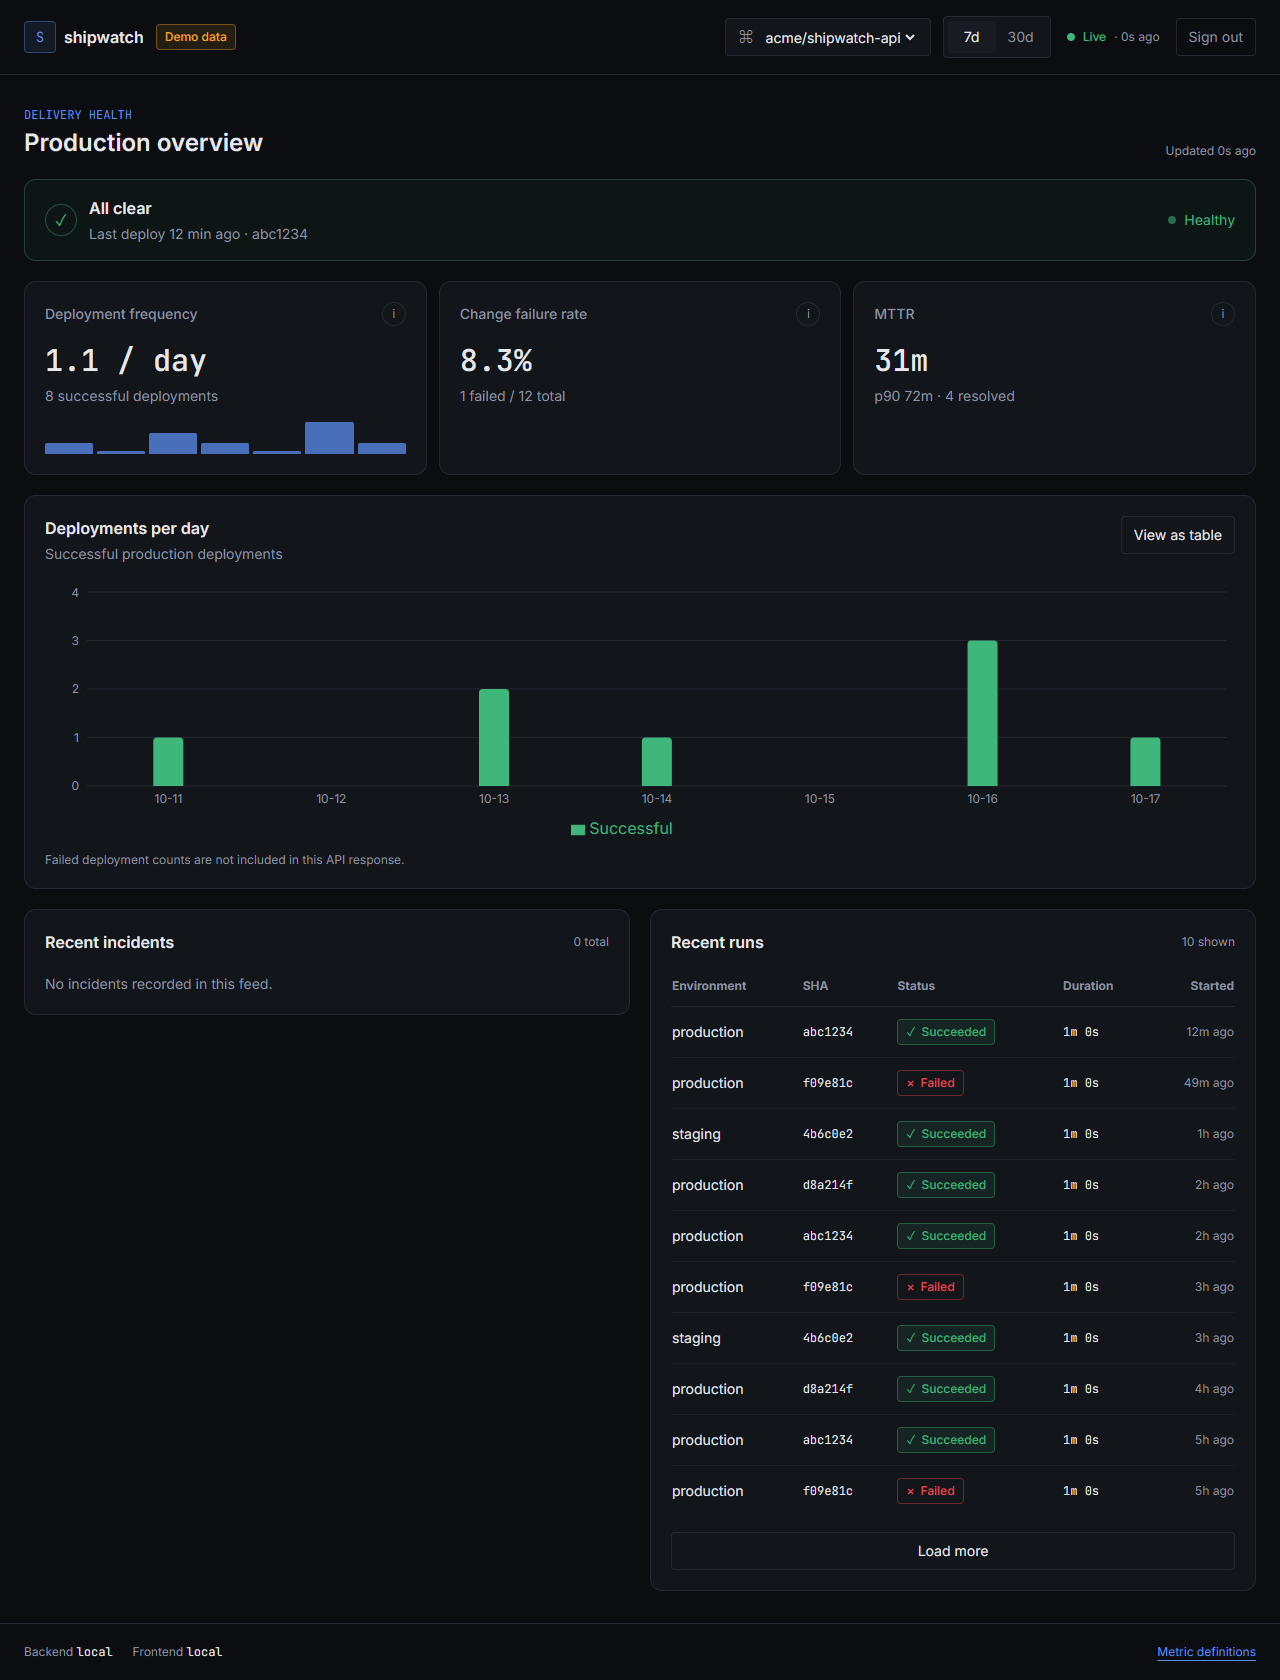
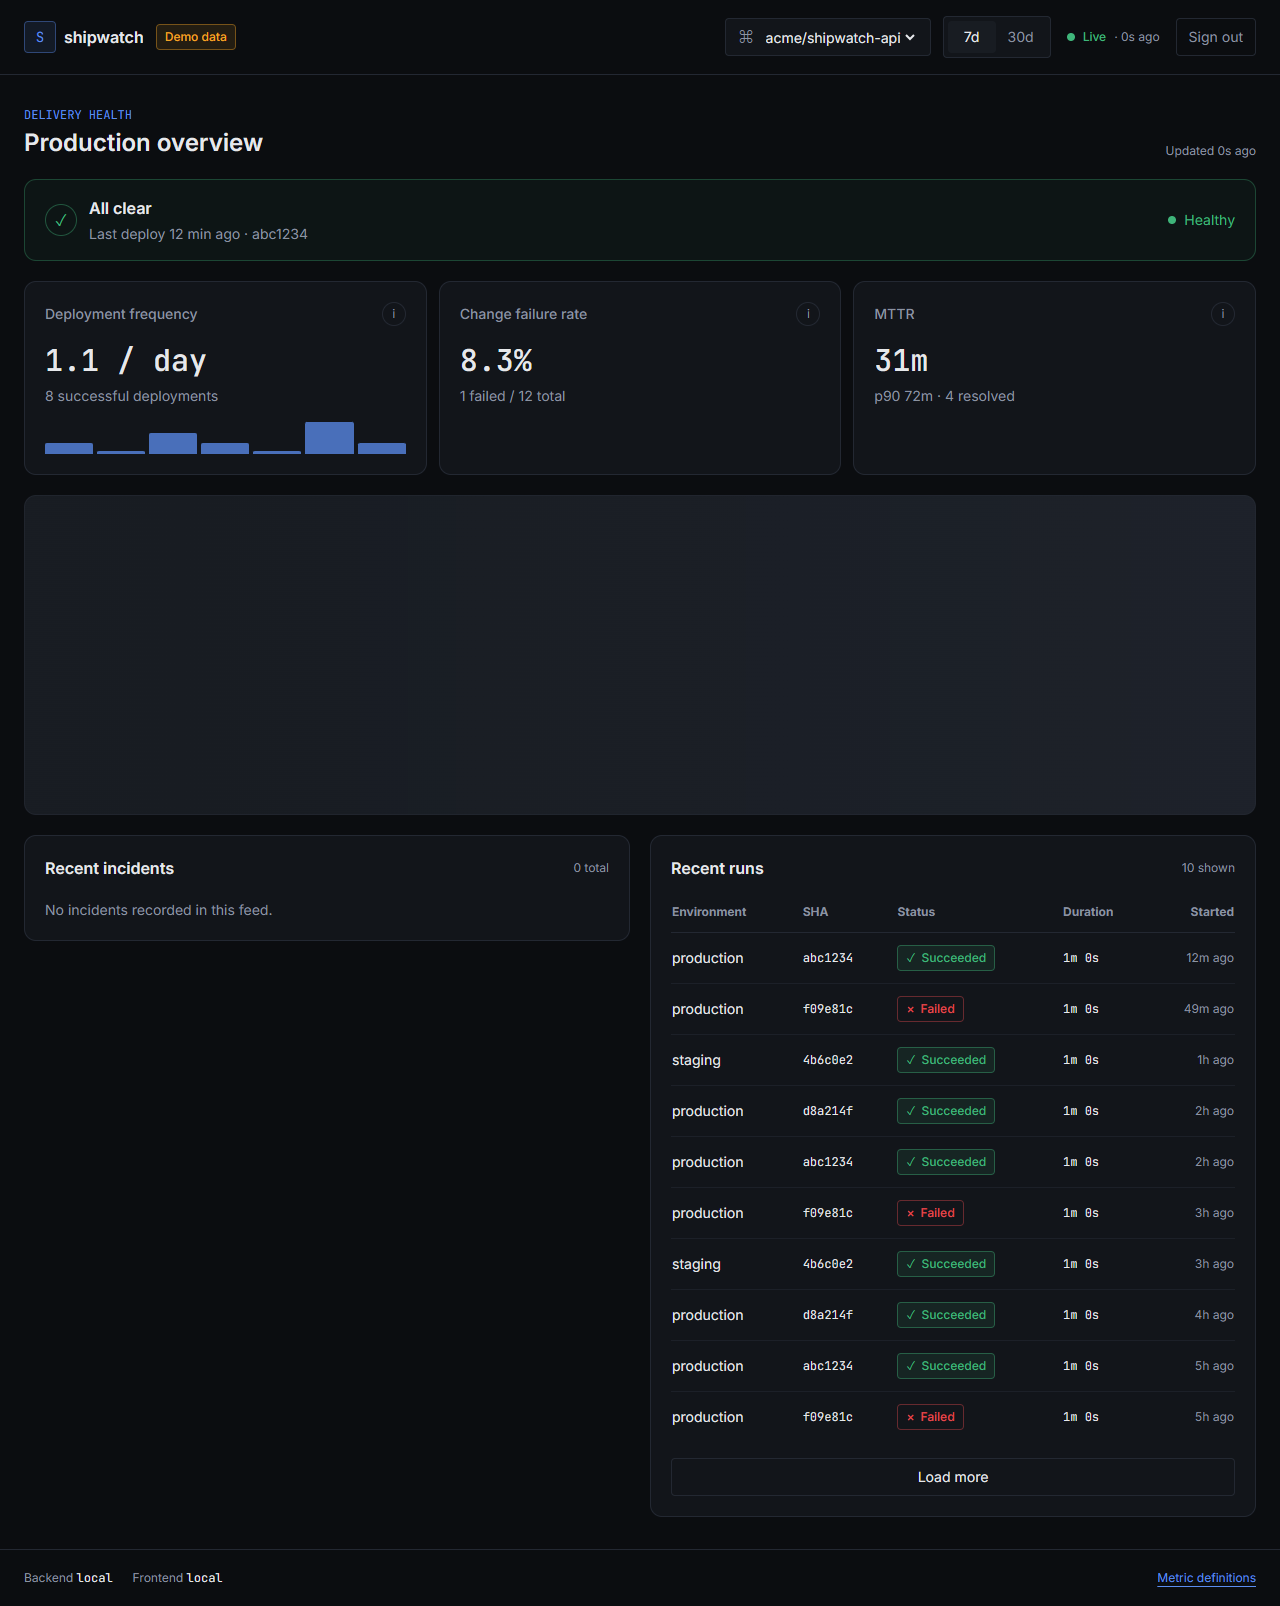
feat: update dashboard screenshots and add error context for Playwright tests

diff --git a/frontend/test-results/dashboard-demo-dashboard-is-responsive-and-accessible/error-context.md b/frontend/test-results/dashboard-demo-dashboard-is-responsive-and-accessible/error-context.md
@@ -1,0 +1,332 @@
+# Instructions
+
+- Following Playwright test failed.
+- Explain why, be concise, respect Playwright best practices.
+- Provide a snippet of code with the fix, if possible.
+
+# Test info
+
+- Name: dashboard.spec.ts >> demo dashboard is responsive and accessible
+- Location: e2e\dashboard.spec.ts:10:1
+
+# Error details
+
+```
+Error: expect(received).toEqual(expected) // deep equality
+
+- Expected  -  1
++ Received  + 47
+
+- Array []
++ Array [
++   Object {
++     "description": "Ensure ARIA attributes are not prohibited for an element's role",
++     "help": "Elements must only use permitted ARIA attributes",
++     "helpUrl": "https://dequeuniversity.com/rules/axe/4.14/aria-prohibited-attr?application=playwright",
++     "id": "aria-prohibited-attr",
++     "impact": "serious",
++     "nodes": Array [
++       Object {
++         "all": Array [],
++         "any": Array [],
++         "failureSummary": "Fix all of the following:
++   aria-label attribute cannot be used on \"div\" elements with no valid role attribute.",
++         "html": "<div aria-label=\"Loading deployment chart\" class=\"skeleton h-80 rounded-console border border-border/70\"></div>",
++         "impact": "serious",
++         "none": Array [
++           Object {
++             "data": Object {
++               "messageKey": "noRoleSingular",
++               "nodeName": "div",
++               "prohibited": Array [
++                 "aria-label",
++               ],
++               "role": null,
++             },
++             "id": "aria-prohibited-attr",
++             "impact": "serious",
++             "message": "aria-label attribute cannot be used on \"div\" elements with no valid role attribute.",
++             "relatedNodes": Array [],
++           },
++         ],
++         "target": Array [
++           ".skeleton",
++         ],
++       },
++     ],
++     "tags": Array [
++       "cat.aria",
++       "wcag2a",
++       "wcag412",
++       "EN-301-549",
++       "EN-9.4.1.2",
++       "RGAAv4",
++       "RGAA-7.1.1",
++     ],
++   },
++ ]
+```
+
+# Page snapshot
+
+```yaml
+- generic [active] [ref=f2e1]:
+  - generic [ref=f2e3]:
+    - banner [ref=f2e4]:
+      - generic [ref=f2e5]:
+        - generic [ref=f2e6]:
+          - link "shipwatch" [ref=f2e7] [cursor=pointer]:
+            - /url: "#dashboard"
+            - generic [aria-hidden] [ref=f2e8]: S
+          - generic [ref=f2e10]: Demo data
+        - generic [ref=f2e11]:
+          - generic [ref=f2e12]:
+            - generic [aria-hidden] [ref=f2e13]: ⌘
+            - generic [ref=f2e14]: Repository
+            - combobox "Repository" [ref=f2e15]:
+              - option "acme/shipwatch-api" [selected]
+          - group "Metric window" [ref=f2e16]:
+            - button "7d" [pressed] [ref=f2e17] [cursor=pointer]
+            - button "30d" [ref=f2e18] [cursor=pointer]
+          - generic "Live, refreshed 0s ago" [ref=f2e19]:
+            - generic [ref=f2e21]: Live
+            - generic [ref=f2e22]: · 0s ago
+          - button "Sign out" [ref=f2e23] [cursor=pointer]
+    - main [ref=f2e24]:
+      - generic [ref=f2e25]:
+        - generic [ref=f2e26]:
+          - paragraph [ref=f2e27]: Delivery health
+          - heading "Production overview" [level=1] [ref=f2e28]
+        - paragraph [ref=f2e29]: Updated 0s ago
+      - generic [ref=f2e30]:
+        - generic [ref=f2e31]:
+          - generic [aria-hidden] [ref=f2e32]: ✓
+          - generic [ref=f2e33]:
+            - paragraph [ref=f2e34]: All clear
+            - paragraph [ref=f2e35]: Last deploy 12 min ago · abc1234
+        - generic [ref=f2e36]: Healthy
+      - region "Delivery metrics" [ref=f2e38]:
+        - article [ref=f2e39]:
+          - generic [ref=f2e40]:
+            - heading "Deployment frequency" [level=2] [ref=f2e41]
+            - button "Deployment frequency definition" [ref=f2e43] [cursor=pointer]: i
+          - paragraph [ref=f2e44]: 1.1 / day
+          - paragraph [ref=f2e45]: 8 successful deployments
+        - article [ref=f2e54]:
+          - generic [ref=f2e55]:
+            - heading "Change failure rate" [level=2] [ref=f2e56]
+            - button "Change failure rate definition" [ref=f2e58] [cursor=pointer]: i
+          - paragraph [ref=f2e59]: 8.3%
+          - paragraph [ref=f2e60]: 1 failed / 12 total
+        - article [ref=f2e61]:
+          - generic [ref=f2e62]:
+            - heading "MTTR" [level=2] [ref=f2e63]
+            - button "MTTR definition" [ref=f2e65] [cursor=pointer]: i
+          - paragraph [ref=f2e66]: 31m
+          - paragraph [ref=f2e67]: p90 72m · 4 resolved
+      - region [ref=f2e68]:
+        - generic [ref=f2e69]:
+          - generic [ref=f2e70]:
+            - heading "Deployments per day" [level=2] [ref=f2e71]
+            - paragraph [ref=f2e72]: Successful production deployments
+          - button "View as table" [ref=f2e73] [cursor=pointer]
+        - img "Bar chart of successful production deployments by day" [ref=f2e74]:
+          - generic [ref=f2e76]:
+            - img [ref=f2e77]:
+              - generic [ref=f2e81]:
+                - generic [ref=f2e82]: 10-11
+                - generic [ref=f2e84]: 10-12
+                - generic [ref=f2e86]: 10-13
+                - generic [ref=f2e88]: 10-14
+                - generic [ref=f2e90]: 10-15
+                - generic [ref=f2e92]: 10-16
+                - generic [ref=f2e94]: 10-17
+              - generic [ref=f2e97]:
+                - generic [ref=f2e98]: "0"
+                - generic [ref=f2e100]: "1"
+                - generic [ref=f2e102]: "2"
+                - generic [ref=f2e104]: "3"
+                - generic [ref=f2e106]: "4"
+            - list [ref=f2e109]:
+              - listitem [ref=f2e110]: Successful
+        - paragraph [ref=f2e113]: Failed deployment counts are not included in this API response.
+      - generic [ref=f2e114]:
+        - region [ref=f2e115]:
+          - generic [ref=f2e116]:
+            - heading "Recent incidents" [level=2] [ref=f2e117]
+            - generic [ref=f2e118]: 0 total
+          - paragraph [ref=f2e119]: No incidents recorded in this feed.
+        - region [ref=f2e121]:
+          - generic [ref=f2e122]:
+            - heading "Recent runs" [level=2] [ref=f2e123]
+            - generic [ref=f2e124]: 10 shown
+          - table [ref=f2e126]:
+            - caption [ref=f2e127]: Recent deployment runs
+            - rowgroup [ref=f2e128]:
+              - row [ref=f2e129]:
+                - columnheader "Environment" [ref=f2e130]
+                - columnheader "SHA" [ref=f2e131]
+                - columnheader "Status" [ref=f2e132]
+                - columnheader "Duration" [ref=f2e133]
+                - columnheader "Started" [ref=f2e134]
+            - rowgroup [ref=f2e135]:
+              - row [ref=f2e136]:
+                - cell "production" [ref=f2e137]
+                - cell "abc1234" [ref=f2e138]
+                - cell [ref=f2e139]:
+                  - generic [ref=f2e140]:
+                    - generic [aria-hidden] [ref=f2e141]: ✓
+                    - text: Succeeded
+                - cell "1m 0s" [ref=f2e142]
+                - cell "12m ago" [ref=f2e143]
+              - row [ref=f2e144]:
+                - cell "production" [ref=f2e145]
+                - cell "f09e81c" [ref=f2e146]
+                - cell [ref=f2e147]:
+                  - generic [ref=f2e148]:
+                    - generic [aria-hidden] [ref=f2e149]: ×
+                    - text: Failed
+                - cell "1m 0s" [ref=f2e150]
+                - cell "49m ago" [ref=f2e151]
+              - row [ref=f2e152]:
+                - cell "staging" [ref=f2e153]
+                - cell "4b6c0e2" [ref=f2e154]
+                - cell [ref=f2e155]:
+                  - generic [ref=f2e156]:
+                    - generic [aria-hidden] [ref=f2e157]: ✓
+                    - text: Succeeded
+                - cell "1m 0s" [ref=f2e158]
+                - cell "1h ago" [ref=f2e159]
+              - row [ref=f2e160]:
+                - cell "production" [ref=f2e161]
+                - cell "d8a214f" [ref=f2e162]
+                - cell [ref=f2e163]:
+                  - generic [ref=f2e164]:
+                    - generic [aria-hidden] [ref=f2e165]: ✓
+                    - text: Succeeded
+                - cell "1m 0s" [ref=f2e166]
+                - cell "2h ago" [ref=f2e167]
+              - row [ref=f2e168]:
+                - cell "production" [ref=f2e169]
+                - cell "abc1234" [ref=f2e170]
+                - cell [ref=f2e171]:
+                  - generic [ref=f2e172]:
+                    - generic [aria-hidden] [ref=f2e173]: ✓
+                    - text: Succeeded
+                - cell "1m 0s" [ref=f2e174]
+                - cell "2h ago" [ref=f2e175]
+              - row [ref=f2e176]:
+                - cell "production" [ref=f2e177]
+                - cell "f09e81c" [ref=f2e178]
+                - cell [ref=f2e179]:
+                  - generic [ref=f2e180]:
+                    - generic [aria-hidden] [ref=f2e181]: ×
+                    - text: Failed
+                - cell "1m 0s" [ref=f2e182]
+                - cell "3h ago" [ref=f2e183]
+              - row [ref=f2e184]:
+                - cell "staging" [ref=f2e185]
+                - cell "4b6c0e2" [ref=f2e186]
+                - cell [ref=f2e187]:
+                  - generic [ref=f2e188]:
+                    - generic [aria-hidden] [ref=f2e189]: ✓
+                    - text: Succeeded
+                - cell "1m 0s" [ref=f2e190]
+                - cell "3h ago" [ref=f2e191]
+              - row [ref=f2e192]:
+                - cell "production" [ref=f2e193]
+                - cell "d8a214f" [ref=f2e194]
+                - cell [ref=f2e195]:
+                  - generic [ref=f2e196]:
+                    - generic [aria-hidden] [ref=f2e197]: ✓
+                    - text: Succeeded
+                - cell "1m 0s" [ref=f2e198]
+                - cell "4h ago" [ref=f2e199]
+              - row [ref=f2e200]:
+                - cell "production" [ref=f2e201]
+                - cell "abc1234" [ref=f2e202]
+                - cell [ref=f2e203]:
+                  - generic [ref=f2e204]:
+                    - generic [aria-hidden] [ref=f2e205]: ✓
+                    - text: Succeeded
+                - cell "1m 0s" [ref=f2e206]
+                - cell "5h ago" [ref=f2e207]
+              - row [ref=f2e208]:
+                - cell "production" [ref=f2e209]
+                - cell "f09e81c" [ref=f2e210]
+                - cell [ref=f2e211]:
+                  - generic [ref=f2e212]:
+                    - generic [aria-hidden] [ref=f2e213]: ×
+                    - text: Failed
+                - cell "1m 0s" [ref=f2e214]
+                - cell "5h ago" [ref=f2e215]
+          - button "Load more" [ref=f2e216] [cursor=pointer]
+    - contentinfo [ref=f2e217]:
+      - generic [ref=f2e218]:
+        - generic [ref=f2e219]:
+          - generic [ref=f2e220]:
+            - text: Backend
+            - code [ref=f2e221]: local
+          - generic [ref=f2e222]:
+            - text: Frontend
+            - code [ref=f2e223]: local
+        - link "Metric definitions" [ref=f2e224] [cursor=pointer]:
+          - /url: /docs/metrics.md
+  - generic [aria-hidden] [ref=f2e225]: "0"
+```
+
+# Test source
+
+```ts
+  1  | import AxeBuilder from "@axe-core/playwright";
+  2  | import { expect, test } from "@playwright/test";
+  3  | import { mkdir } from "node:fs/promises";
+  4  | import { fileURLToPath } from "node:url";
+  5  | import { dirname, resolve } from "node:path";
+  6  | 
+  7  | const root = dirname(dirname(fileURLToPath(import.meta.url)));
+  8  | const screenshots = resolve(root, "../docs/screenshots");
+  9  | 
+  10 | test("demo dashboard is responsive and accessible", async ({ page }) => {
+  11 |   await mkdir(screenshots, { recursive: true });
+  12 |   for (const width of [360, 768, 1280]) {
+  13 |     await page.setViewportSize({ width, height: 900 });
+  14 |     await page.goto("/?demo=1");
+  15 |     await expect(page.getByText("Demo data")).toBeVisible();
+  16 |     await expect(page.getByRole("heading", { name: "Production overview" })).toBeVisible();
+  17 |     await expect(page.getByRole("heading", { name: "Recent runs" })).toBeVisible();
+  18 |     await page.screenshot({ path: resolve(screenshots, `dashboard-${width}.png`), fullPage: true });
+  19 |     const dimensions = await page.locator("html").evaluate((element) => ({
+  20 |       document: element.scrollWidth,
+  21 |       viewport: window.innerWidth,
+  22 |       offenders: Array.from(document.querySelectorAll("body *"))
+  23 |         .filter((child) => child.getBoundingClientRect().right > window.innerWidth)
+  24 |         .slice(0, 5)
+  25 |         .map((child) => ({ tag: child.tagName, className: child.className, right: child.getBoundingClientRect().right }))
+  26 |     }));
+  27 |     expect(dimensions.document <= dimensions.viewport, `horizontal overflow at ${width}px: ${JSON.stringify(dimensions)}`).toBe(true);
+  28 |   }
+  29 |   const accessibility = await new AxeBuilder({ page }).withTags(["wcag2a", "wcag2aa", "wcag21a", "wcag21aa"]).analyze();
+> 30 |   expect(accessibility.violations).toEqual([]);
+     |                                    ^ Error: expect(received).toEqual(expected) // deep equality
+  31 |   await page.emulateMedia({ colorScheme: "light" });
+  32 |   const lightAccessibility = await new AxeBuilder({ page }).withTags(["wcag2a", "wcag2aa", "wcag21a", "wcag21aa"]).analyze();
+  33 |   expect(lightAccessibility.violations).toEqual([]);
+  34 | });
+  35 | 
+  36 | test("incident and empty demo variants stay isolated from the API", async ({ page }) => {
+  37 |   const apiRequests: string[] = [];
+  38 |   page.on("request", (request) => {
+  39 |     if (request.url().includes("/api/repos")) apiRequests.push(request.url());
+  40 |   });
+  41 |   await page.goto("/?demo=incident");
+  42 |   await expect(page.getByText("Demo data")).toBeVisible();
+  43 |   await expect(page.getByText(/Production incident open for/)).toBeVisible();
+  44 |   await expect(page.getByText("production is affected · latest failed SHA: f09e81c")).toBeVisible();
+  45 |   await page.goto("/?demo=empty");
+  46 |   await expect(page.getByText("No data in this window").first()).toBeVisible();
+  47 |   await expect(page.getByText("Your delivery data will appear here")).toBeVisible();
+  48 |   expect(apiRequests).toEqual([]);
+  49 | });
+  50 | 
+```
